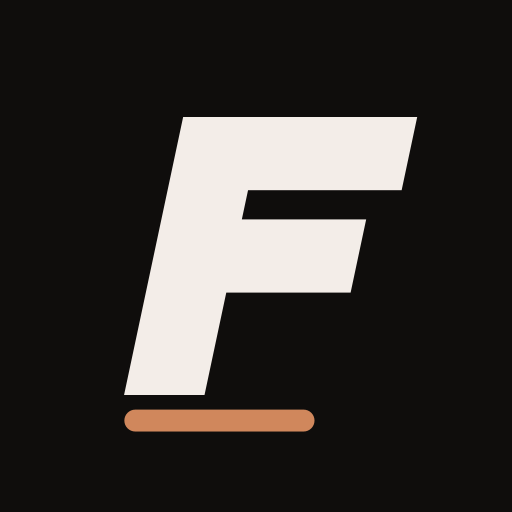
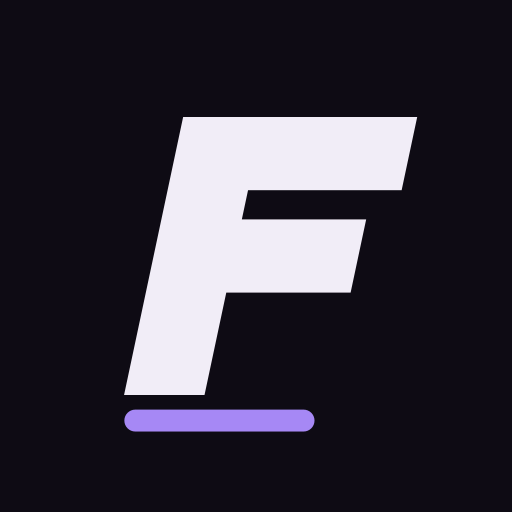
Tema morado: paleta violeta oscura con acento lila, iconos y manifiesto
Claude-Session: https://claude.ai/code/session_01MUdD164NwbBYtnUNcvXN8b

Changed region(s): [[0.2188, 0.7812, 0.625, 0.8438]]

diff --git a/styles.css b/styles.css
@@ -1,5 +1,5 @@
 /* FORJADO — estilo "papel": Fraunces + Manrope, formas suaves, acento naranja.
-   Un solo tema: OSCURO cálido con acento terracota.
+   Un solo tema: OSCURO violeta con acento morado.
    Una sola capa: todo sale de los tokens de :root. No añadas colores ni medidas sueltas más abajo. */
 
 /* ===== Tokens ===== */
@@ -21,14 +21,14 @@
   --ease-spring: cubic-bezier(.34, 1.4, .64, 1);
   --snap: var(--ease-out); --spring: var(--ease-spring);
 
-  /* Color — un solo tema: OSCURO cálido con acento terracota. Superficies en capas, sin negro ni blanco puros */
-  --bg: #0f0d0c; --surface: #171413; --surface-2: #1f1b19; --surface-3: #2a2421;
-  --line: #2a2522; --line-2: #3a332f;
-  --text: #f3ede8; --text-2: #cdc3bb; --muted: #9c918a;
-  --fire: #d0875c; --fire-2: #e6a27a; --fire-text: #e6a27a; --on-fire: #1a0f09;
+  /* Color — un solo tema: OSCURO violeta con acento morado. Superficies en capas, sin negro ni blanco puros */
+  --bg: #0e0b14; --surface: #15111d; --surface-2: #1c1727; --surface-3: #282237;
+  --line: #29223a; --line-2: #3a3150;
+  --text: #f1edf7; --text-2: #c9c1d8; --muted: #9b92ad;
+  --fire: #a688f5; --fire-2: #bda4fa; --fire-text: #bda4fa; --on-fire: #120a24;
   --acid: #2ea77a; --acid-text: #7fcfa1; --on-acid: #03150d;
   --warn: #e8b02f; --warn-text: #f0c14d;
-  --scrim: rgba(8, 5, 3, .66);
+  --scrim: rgba(6, 4, 12, .66);
   --shadow-1: inset 0 0 0 1px var(--line), inset 0 1px 0 rgba(255, 255, 255, .035);
   --shadow-2: inset 0 0 0 1px var(--line-2), 0 14px 34px -12px rgba(0, 0, 0, .75);
   --shadow-3: 0 -1px 0 var(--line-2), 0 -18px 44px -14px rgba(0, 0, 0, .8);

diff --git a/index.html b/index.html
@@ -7,7 +7,7 @@
 <meta name="mobile-web-app-capable" content="yes">
 <meta name="apple-mobile-web-app-title" content="Forjado">
 <meta name="apple-mobile-web-app-status-bar-style" content="default">
-<meta name="theme-color" content="#0f0d0c">
+<meta name="theme-color" content="#0e0b14">
 <link rel="manifest" href="manifest.webmanifest">
 <link rel="apple-touch-icon" href="icons/apple-touch-icon.png">
 <link rel="icon" type="image/png" href="icons/favicon.png">

diff --git a/sw.js b/sw.js
@@ -1,5 +1,5 @@
 // Sube la versión cuando cambies archivos para que el móvil descargue la nueva copia.
-const CACHE = 'entreno-v140';
+const CACHE = 'entreno-v141';
 const IMG_CACHE = 'entreno-img';   // fotos de ejercicios: no se borra al subir de versión
 const IMG_MAX = 250;               // máximo de fotos guardadas (se van borrando las más antiguas)
 const IMG_HOSTS = ['pump-app.s3.eu-west-2.amazonaws.com'];

diff --git a/tests/e2e.py b/tests/e2e.py
@@ -805,11 +805,11 @@ def la_app_se_llama_forjado(pg):
     assert m["name"] == "Forjado" and m["short_name"] == "Forjado"
 
 @test
-def icono_es_la_f_inclinada_sobre_fondo_calido_y_linea_terracota(pg):
+def icono_es_la_f_inclinada_sobre_fondo_violeta_y_linea_morada(pg):
     import math
     from PIL import Image
     cerca = lambda a, b: all(abs(x - y) <= 14 for x, y in zip(a, b))
-    FONDO, ACENTO, CLARO = (15, 13, 12), (208, 135, 92), (243, 237, 232)   # --bg, --fire, --text
+    FONDO, ACENTO, CLARO = (14, 11, 20), (166, 136, 245), (241, 237, 247)   # --bg, --fire, --text
     inclina = lambda x, y: (x - math.tan(math.radians(12)) * (y - 70), y)  # skewX(-12) alrededor del centro
     for nombre, tam, k in [("apple-touch-icon", 180, 1), ("icon-192", 192, 1), ("icon-512", 512, 1), ("icon-maskable-512", 512, .85)]:
         im = Image.open(os.path.join(ROOT, "icons", nombre + ".png")).convert("RGB")
@@ -817,17 +817,17 @@ def icono_es_la_f_inclinada_sobre_fondo_calido_y_linea_terracota(pg):
             if f: x, y = inclina(x, y)
             x, y = 70 + (x - 70) * k, 70 + (y - 70) * k
             return im.getpixel((round(x / 140 * tam), round(y / 140 * tam)))
-        assert cerca(p(1, 1), FONDO), f"{nombre}: el fondo es el casi negro cálido de la app: {p(1, 1)}"
+        assert cerca(p(1, 1), FONDO), f"{nombre}: el fondo es el casi negro violeta de la app: {p(1, 1)}"
         assert cerca(p(53, 95, True), CLARO), f"{nombre}: el palo de la F es claro: {p(53, 95, True)}"
         assert cerca(p(85, 42, True), CLARO), f"{nombre}: el brazo de arriba es claro: {p(85, 42, True)}"
         assert cerca(p(85, 70, True), CLARO), f"{nombre}: el brazo de en medio es claro: {p(85, 70, True)}"
         assert cerca(p(85, 56, True), FONDO), f"{nombre}: entre los brazos se ve el fondo: {p(85, 56, True)}"
-        assert cerca(p(60, 115), ACENTO), f"{nombre}: la línea terracota bajo la F: {p(60, 115)}"
+        assert cerca(p(60, 115), ACENTO), f"{nombre}: la línea morada bajo la F: {p(60, 115)}"
     fav = Image.open(os.path.join(ROOT, "icons", "favicon.png")).convert("RGB")
     assert cerca(fav.getpixel((1, 1)), FONDO), "el favicon también lleva el fondo de la app"
     m = json.loads(open(os.path.join(ROOT, "manifest.webmanifest")).read())
-    assert m["background_color"].lower() == "#0f0d0c" and m["theme_color"].lower() == "#0f0d0c", "el color del manifiesto es el del icono"
-    assert 'content="#0f0d0c"' in open(os.path.join(ROOT, "index.html"), encoding="utf-8").read()
+    assert m["background_color"].lower() == "#0e0b14" and m["theme_color"].lower() == "#0e0b14", "el color del manifiesto es el del icono"
+    assert 'content="#0e0b14"' in open(os.path.join(ROOT, "index.html"), encoding="utf-8").read()
 
 @test
 def copia_restaurar_acepta_copias_antiguas_de_entreno(pg):
@@ -2264,7 +2264,7 @@ def tema_unico_oscuro_aunque_hubiera_claro_guardado(pg):
     assert _lum(_rgb(pg, "body", "backgroundColor")) < .03, _rgb(pg, "body", "backgroundColor")
     _tema(pg, "auto"); pg.emulate_media(color_scheme="light"); pg.wait_for_timeout(200)
     assert _lum(_rgb(pg, "body", "backgroundColor")) < .03, "ni siquiera con el iPhone en modo claro"
-    assert pg.get_attribute('meta[name="theme-color"]', "content").lower() == "#0f0d0c"
+    assert pg.get_attribute('meta[name="theme-color"]', "content").lower() == "#0e0b14"
 
 def _hue(c):
     import colorsys
@@ -2276,17 +2276,17 @@ def _rgb_t(c):
     return tuple(int(x) for x in re.findall(r"\d+", c)[:3])
 
 @test
-def terracota_fondo_calido_y_acento_terracota(pg):
+def morado_fondo_violeta_y_acento_morado(pg):
     seed(pg)
-    assert _var(pg, "--bg").lower() == "#0f0d0c", _var(pg, "--bg")
+    assert _var(pg, "--bg").lower() == "#0e0b14", _var(pg, "--bg")
     for n in ["--bg", "--surface", "--surface-2", "--surface-3"]:
         h = _hue("rgb(%d,%d,%d)" % tuple(int(_var(pg, n).lstrip("#")[i:i + 2], 16) for i in (0, 2, 4)))
-        assert 0 <= h <= 40, f"{n} es cálido, no azul: tono {h:.0f}"
-    assert _var(pg, "--fire").lower() == "#d0875c", _var(pg, "--fire")
-    assert _var(pg, "--on-fire").lower() == "#1a0f09"
+        assert 250 <= h <= 285, f"{n} es violeta oscuro: tono {h:.0f}"
+    assert _var(pg, "--fire").lower() == "#a688f5", _var(pg, "--fire")
+    assert _var(pg, "--on-fire").lower() == "#120a24"
     tab(pg, "rutinas")
     b = _rgb(pg, "[data-start-routine]", "backgroundColor")
-    assert 15 <= _hue(b) <= 30, f"el botón Comenzar es terracota: {b}"
+    assert 250 <= _hue(b) <= 270, f"el botón Comenzar es morado: {b}"
 
 @test
 def azul_fondo_liso_sin_degradado_ni_difuminado(pg):
@@ -2299,11 +2299,11 @@ def azul_fondo_liso_sin_degradado_ni_difuminado(pg):
 
 
 @test
-def terracota_barra_de_estado_y_manifest_oscuros(pg):
+def morado_barra_de_estado_y_manifest_oscuros(pg):
     seed(pg)
-    assert pg.get_attribute('meta[name="theme-color"]', "content").lower() == "#0f0d0c"
+    assert pg.get_attribute('meta[name="theme-color"]', "content").lower() == "#0e0b14"
     m = json.loads(open(os.path.join(ROOT, "manifest.webmanifest")).read())
-    assert m["background_color"].lower() == "#0f0d0c" and m["theme_color"].lower() == "#0f0d0c", m
+    assert m["background_color"].lower() == "#0e0b14" and m["theme_color"].lower() == "#0e0b14", m
 
 @test
 def diseno_tokens_de_espaciado_radios_texto_y_movimiento(pg):

diff --git a/README.md b/README.md
@@ -1,6 +1,6 @@
 # Forjado (PWA)
 
-App web instalable en iPhone para registrar entrenos, rutinas y caminatas. Estilo "papel": tipografía Fraunces y Manrope, esquinas redondeadas y un solo tema, oscuro cálido con acento terracota. Racha semanal, cifras de la semana, siguiente rutina sugerida, calendario de días entrenados y frases sin piedad.
+App web instalable en iPhone para registrar entrenos, rutinas y caminatas. Estilo "papel": tipografía Fraunces y Manrope, esquinas redondeadas y un solo tema, oscuro violeta con acento morado. Racha semanal, cifras de la semana, siguiente rutina sugerida, calendario de días entrenados y frases sin piedad.
 
 ## Instalar en el iPhone
 
@@ -34,7 +34,7 @@ La app funciona sin wifi ni datos. El service worker (`sw.js`) guarda el código
 - Las librerías de Firebase se guardan si se puede; si fallan, no impiden instalar (la sincronización solo funciona con conexión).
 - Las fotos de los ejercicios (de un servidor externo) se guardan al verlas por primera vez, hasta 250, en una caché aparte que no se borra al subir de versión. Para poder guardarlas se piden con CORS; si el servidor no lo permite, se muestran igual pero no quedan disponibles sin red.
 - Fuentes autoalojadas: Fraunces y Manrope (licencia SIL OFL 1.1, ver `fonts/`).
-- Iconos en `icons/`: una «F» clara inclinada con una línea terracota debajo, sobre el fondo casi negro de la app (`--bg`). Fuente en `icons/icon.svg`; los PNG se generan con `rsvg-convert` (el «maskable» con el dibujo al 85 %).
+- Iconos en `icons/`: una «F» clara inclinada con una línea morada debajo, sobre el fondo casi negro de la app (`--bg`). Fuente en `icons/icon.svg`; los PNG se generan con `rsvg-convert` (el «maskable» con el dibujo al 85 %).
 
 ## Funciones
 
